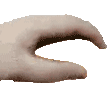
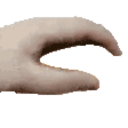
0.5.0

diff --git a/src/lib.rs b/src/lib.rs
@@ -15,8 +15,8 @@ use image::Delay;
 use image::imageops::resize;
 use image::imageops::{overlay, FilterType};
 
-const FRAMES: u32 = 5;
-const RESOLUTION: (u32, u32) = (112, 112);
+const FRAMES: u32 = 10;
+const RESOLUTION: (u32, u32) = (128, 128);
 const HANDS: SyncLazy<Vec<RgbaImage>> = SyncLazy::new(|| {
     (0..5)
         .map(|num| format!("{}.png", num))
@@ -37,8 +37,8 @@ pub fn generate(image: RgbaImage) -> ImageResult<impl IntoIterator<Item = Frame>
     for i in 0..FRAMES {
         let squeeze = if i < FRAMES / 2 { i } else { FRAMES - i } as f64;
 
-        let width_scale = squeeze * 0.02 + 0.8;
-        let height_scale = squeeze * 0.05 + 0.8;
+        let width_scale = 0.8 + squeeze * 0.02;
+        let height_scale = 0.8 - squeeze * 0.05;
 
         let width = (width_scale * RESOLUTION.0 as f64) as u32;
         let height = (height_scale * RESOLUTION.1 as f64) as u32;
@@ -57,7 +57,7 @@ pub fn generate(image: RgbaImage) -> ImageResult<impl IntoIterator<Item = Frame>
             offset_y,
         );
 
-        for (pixel_hand, pixel_canvas) in HANDS[i as usize]
+        for (pixel_hand, pixel_canvas) in HANDS[i as usize / 2]
             .pixels()
             .zip(resize_then_overlay.pixels_mut())
         {
@@ -66,8 +66,8 @@ pub fn generate(image: RgbaImage) -> ImageResult<impl IntoIterator<Item = Frame>
             }
         }
 
-        const DENOM_MS: u32 = 20 / FRAMES;
-        let overlay_then_delay = Frame::from_parts(resize_then_overlay, 0, 0, Delay::from_numer_denom_ms(DENOM_MS, 1));
+        const DELAY: u32 = 20;
+        let overlay_then_delay = Frame::from_parts(resize_then_overlay, 0, 0, Delay::from_numer_denom_ms(DELAY, 1));
 
         frames.push(overlay_then_delay);
     }
